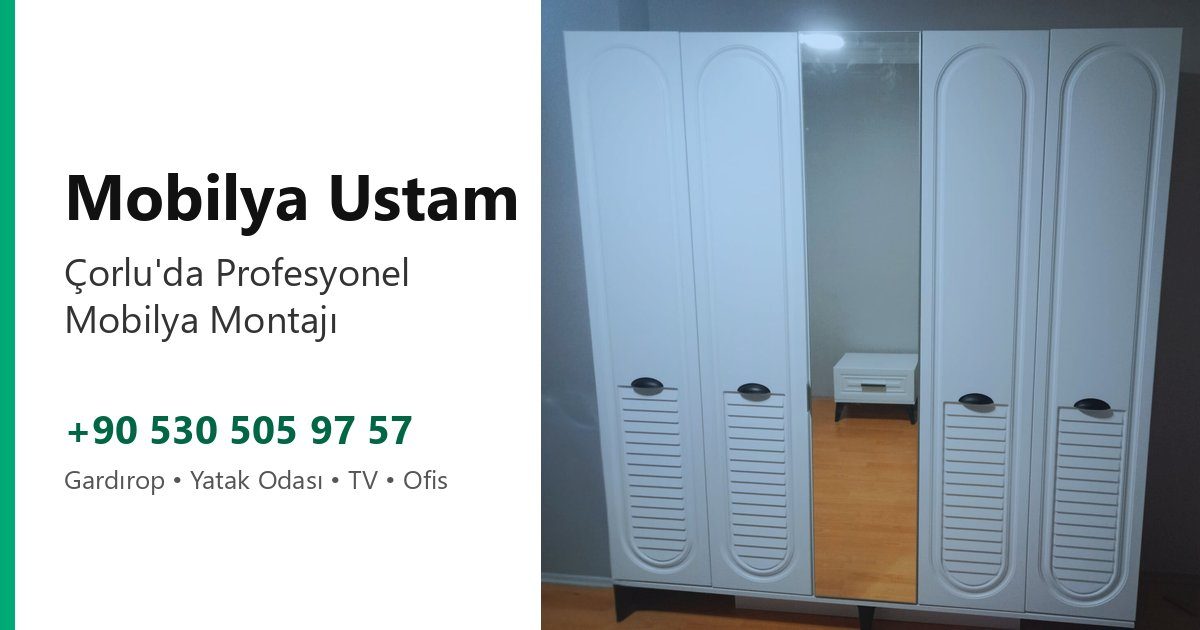
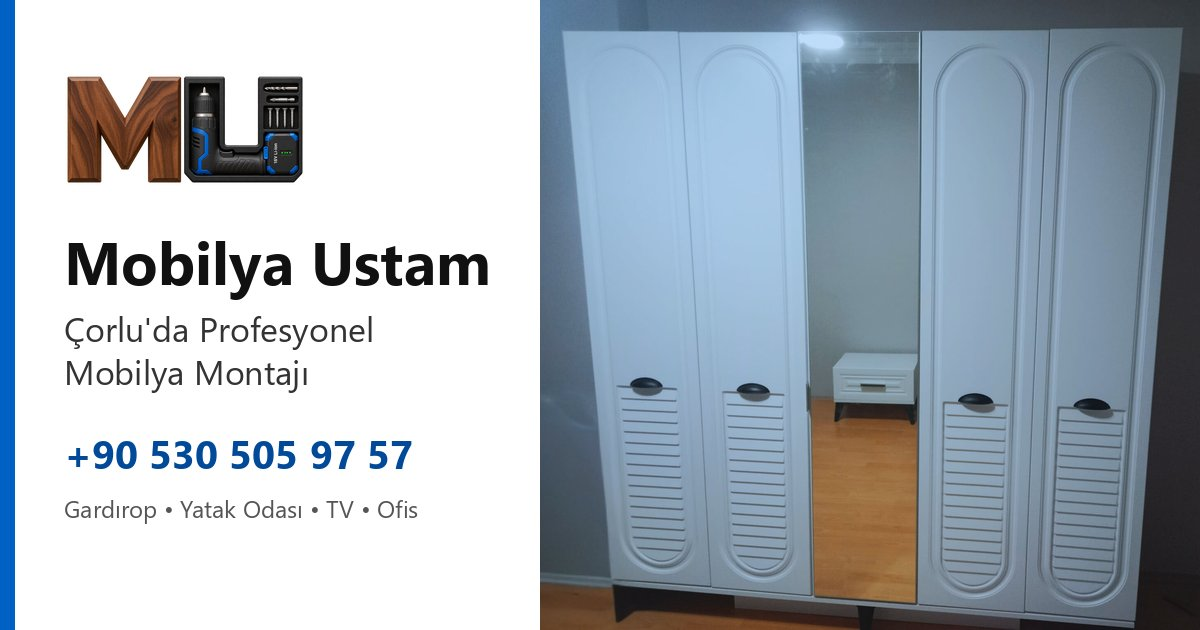
Publish site from source@ad64f96

Changed region(s): [[0.0, 0.0, 0.4317, 1.0], [0.0617, 0.6635, 0.37, 0.8444]]

diff --git a/assets/css/styles.css b/assets/css/styles.css
@@ -1,6 +1,6 @@
 /* Lightweight, system-font, responsive base */
 :root{
-  --bg:#ffffff; --fg:#111; --muted:#555; --brand:#0a7; --brand-ink:#064;
+  --bg:#ffffff; --fg:#111; --muted:#555; --brand:#0061c5; --brand-ink:#004a99;
   --max: 64rem; --gap: 1rem;
 }
 *{box-sizing:border-box}
@@ -11,7 +11,9 @@ a{color:var(--brand)} a:hover{color:var(--brand-ink)}
 header{border-bottom:1px solid #eee; position:sticky; top:0; background:#fff; z-index:10}
 nav{display:flex; gap:1rem; align-items:center; justify-content:space-between; padding:0.75rem 0}
 nav .links{display:flex; gap:0.75rem; flex-wrap:wrap}
-.logo{font-weight:700; letter-spacing:.2px}
+.logo{display:inline-flex; align-items:center; gap:.55rem; font-weight:700; letter-spacing:.2px; color:var(--brand-ink); text-decoration:none}
+.logo img{display:block; width:80px; height:40px}
+@media(max-width:640px){nav{flex-wrap:wrap; gap:.5rem}nav .links{width:100%; gap:.35rem .9rem}}
 main{padding:2rem 0}
 .hero{display:grid; gap:1rem}
 .hero h1{font-size:clamp(1.75rem,3.5vw,2.5rem); margin:.25rem 0}
@@ -88,7 +90,7 @@ details.faq p{margin:.5rem 0 0}
 .steps{padding-left:1.35rem}
 .steps li{padding-left:.25rem; margin:.55rem 0}
 .prose{max-width:52rem}
-.final-cta{margin-top:1rem; padding:1.25rem; border:1px solid #dfe9e5; border-radius:.5rem; background:#f7fbf9}
+.final-cta{margin-top:1rem; padding:1.25rem; border:1px solid #d6e3f5; border-radius:.5rem; background:#f4f8fd}
 .area-list{display:grid; grid-template-columns:repeat(auto-fit,minmax(15rem,1fr)); gap:.35rem 1.5rem; padding:0; list-style:none}
 .area-list li{padding:.35rem 0; border-bottom:1px solid #eee; scroll-margin-top:5rem}
 .footer-grid{display:flex; justify-content:space-between; gap:2rem; flex-wrap:wrap}

diff --git a/index.html b/index.html
@@ -8,9 +8,12 @@
   <meta name="google-site-verification" content="3x0CSsri1ACiUlE2xNKdaHYy5gzDs8c_Xf15ED1gwyI" />
   <link rel="preload" href="/assets/css/styles.css" as="style">
   <link rel="stylesheet" href="/assets/css/styles.css">
+  <link rel="icon" href="/favicon.ico" sizes="48x48">
   <link rel="icon" href="/assets/img/favicon-32.png" sizes="32x32" type="image/png">
   <link rel="icon" href="/assets/img/favicon-16.png" sizes="16x16" type="image/png">
-  <link rel="apple-touch-icon" href="/assets/img/favicon-192.png">
+  <link rel="apple-touch-icon" href="/assets/img/apple-touch-icon.png">
+  <link rel="manifest" href="/site.webmanifest">
+  <meta name="theme-color" content="#0061c5">
   <link rel="canonical" href="https://mobilyaustam.github.io/">
   <meta property="og:type" content="website">
   <meta property="og:site_name" content="Mobilya Ustam">
@@ -33,7 +36,7 @@
   "url": "https://mobilyaustam.github.io/",
   "telephone": "+905305059757",
   "image": "https://mobilyaustam.github.io/assets/img/og.jpg",
-  "logo": "https://mobilyaustam.github.io/assets/img/logo-og.jpg",
+  "logo": "https://mobilyaustam.github.io/assets/img/logo/mobilyaustam-logo-square-512.png",
   "priceRange": "₺₺",
   "address": {
     "@type": "PostalAddress",
@@ -153,7 +156,7 @@
   <header>
     <div class="wrap">
       <nav aria-label="Ana menü">
-        <a class="logo" href="/">Mobilya Ustam</a>
+        <a class="logo" href="/"><img src="/assets/img/logo/mobilyaustam-logo-160.webp" width="80" height="40" alt="" decoding="async"><span>Mobilya Ustam</span></a>
         <div class="links">
           <a href="/hizmetler/">Hizmetler</a>
           <a href="/bolgeler/">Hizmet Bölgeleri</a>

diff --git a/galeri/calisma-masali-genc-odasi-gardirop-kurulumu/index.html b/galeri/calisma-masali-genc-odasi-gardirop-kurulumu/index.html
@@ -6,9 +6,12 @@
   <title>Çalışma Masalı Genç Odası Gardırop Kurulumu | Mobilya Ustam</title>
   <meta name="description" content="Genç odası için aynalı gardırop ve gardıroba bağlı çalışma masası kurulumu adım adım: yerleşim planı, gövde montajı, masa tablası bağlantısı ve sabitleme.">
   <link rel="stylesheet" href="/assets/css/styles.css">
+  <link rel="icon" href="/favicon.ico" sizes="48x48">
   <link rel="icon" href="/assets/img/favicon-32.png" sizes="32x32" type="image/png">
   <link rel="icon" href="/assets/img/favicon-16.png" sizes="16x16" type="image/png">
-  <link rel="apple-touch-icon" href="/assets/img/favicon-192.png">
+  <link rel="apple-touch-icon" href="/assets/img/apple-touch-icon.png">
+  <link rel="manifest" href="/site.webmanifest">
+  <meta name="theme-color" content="#0061c5">
   <link rel="canonical" href="https://mobilyaustam.github.io/galeri/calisma-masali-genc-odasi-gardirop-kurulumu/">
   <meta property="og:type" content="article">
   <meta property="og:site_name" content="Mobilya Ustam">
@@ -211,7 +214,7 @@
   <header>
     <div class="wrap">
       <nav aria-label="Ana menü">
-        <a class="logo" href="/">Mobilya Ustam</a>
+        <a class="logo" href="/"><img src="/assets/img/logo/mobilyaustam-logo-160.webp" width="80" height="40" alt="" decoding="async"><span>Mobilya Ustam</span></a>
         <div class="links">
           <a href="/hizmetler/">Hizmetler</a>
           <a href="/bolgeler/">Hizmet Bölgeleri</a>

diff --git a/galeri/parlak-beyaz-aynali-gardirop-kurulumu/index.html b/galeri/parlak-beyaz-aynali-gardirop-kurulumu/index.html
@@ -6,9 +6,12 @@
   <title>Parlak Beyaz Aynalı Gardırop Kurulumu Adım Adım | Mobilya Ustam</title>
   <meta name="description" content="Çok modüllü, parlak beyaz ve aynalı gardırobun kurulumu adım adım: parça kontrolü, gövde montajı, modül birleştirme, menteşe ayarı ve duvara sabitleme.">
   <link rel="stylesheet" href="/assets/css/styles.css">
+  <link rel="icon" href="/favicon.ico" sizes="48x48">
   <link rel="icon" href="/assets/img/favicon-32.png" sizes="32x32" type="image/png">
   <link rel="icon" href="/assets/img/favicon-16.png" sizes="16x16" type="image/png">
-  <link rel="apple-touch-icon" href="/assets/img/favicon-192.png">
+  <link rel="apple-touch-icon" href="/assets/img/apple-touch-icon.png">
+  <link rel="manifest" href="/site.webmanifest">
+  <meta name="theme-color" content="#0061c5">
   <link rel="canonical" href="https://mobilyaustam.github.io/galeri/parlak-beyaz-aynali-gardirop-kurulumu/">
   <meta property="og:type" content="article">
   <meta property="og:site_name" content="Mobilya Ustam">
@@ -209,7 +212,7 @@
   <header>
     <div class="wrap">
       <nav aria-label="Ana menü">
-        <a class="logo" href="/">Mobilya Ustam</a>
+        <a class="logo" href="/"><img src="/assets/img/logo/mobilyaustam-logo-160.webp" width="80" height="40" alt="" decoding="async"><span>Mobilya Ustam</span></a>
         <div class="links">
           <a href="/hizmetler/">Hizmetler</a>
           <a href="/bolgeler/">Hizmet Bölgeleri</a>

diff --git a/galeri/5-kapakli-aynali-gardirop-kurulumu/index.html b/galeri/5-kapakli-aynali-gardirop-kurulumu/index.html
@@ -6,9 +6,12 @@
   <title>5 Kapaklı Aynalı Gardırop Kurulumu ve Kapak Ayarı | Mobilya Ustam</title>
   <meta name="description" content="5 kapaklı, ortası boy aynalı gardırop kurulumu adım adım: ayaklı gövde montajı, ara bölmeler, aynalı kapak, menteşe ve kulp hizası ayarı.">
   <link rel="stylesheet" href="/assets/css/styles.css">
+  <link rel="icon" href="/favicon.ico" sizes="48x48">
   <link rel="icon" href="/assets/img/favicon-32.png" sizes="32x32" type="image/png">
   <link rel="icon" href="/assets/img/favicon-16.png" sizes="16x16" type="image/png">
-  <link rel="apple-touch-icon" href="/assets/img/favicon-192.png">
+  <link rel="apple-touch-icon" href="/assets/img/apple-touch-icon.png">
+  <link rel="manifest" href="/site.webmanifest">
+  <meta name="theme-color" content="#0061c5">
   <link rel="canonical" href="https://mobilyaustam.github.io/galeri/5-kapakli-aynali-gardirop-kurulumu/">
   <meta property="og:type" content="article">
   <meta property="og:site_name" content="Mobilya Ustam">
@@ -205,7 +208,7 @@
   <header>
     <div class="wrap">
       <nav aria-label="Ana menü">
-        <a class="logo" href="/">Mobilya Ustam</a>
+        <a class="logo" href="/"><img src="/assets/img/logo/mobilyaustam-logo-160.webp" width="80" height="40" alt="" decoding="async"><span>Mobilya Ustam</span></a>
         <div class="links">
           <a href="/hizmetler/">Hizmetler</a>
           <a href="/bolgeler/">Hizmet Bölgeleri</a>

diff --git a/galeri/kose-gardirop-kurulumu/index.html b/galeri/kose-gardirop-kurulumu/index.html
@@ -6,9 +6,12 @@
   <title>L Tipi Köşe Gardırop Kurulumu Adım Adım | Mobilya Ustam</title>
   <meta name="description" content="L tipi köşe gardırop nasıl kurulur? Köşe modülünden başlayan kurulum sırası, duvar gönyesi kontrolü, modül birleştirme ve aynalı kapak ayarı adım adım.">
   <link rel="stylesheet" href="/assets/css/styles.css">
+  <link rel="icon" href="/favicon.ico" sizes="48x48">
   <link rel="icon" href="/assets/img/favicon-32.png" sizes="32x32" type="image/png">
   <link rel="icon" href="/assets/img/favicon-16.png" sizes="16x16" type="image/png">
-  <link rel="apple-touch-icon" href="/assets/img/favicon-192.png">
+  <link rel="apple-touch-icon" href="/assets/img/apple-touch-icon.png">
+  <link rel="manifest" href="/site.webmanifest">
+  <meta name="theme-color" content="#0061c5">
   <link rel="canonical" href="https://mobilyaustam.github.io/galeri/kose-gardirop-kurulumu/">
   <meta property="og:type" content="article">
   <meta property="og:site_name" content="Mobilya Ustam">
@@ -209,7 +212,7 @@
   <header>
     <div class="wrap">
       <nav aria-label="Ana menü">
-        <a class="logo" href="/">Mobilya Ustam</a>
+        <a class="logo" href="/"><img src="/assets/img/logo/mobilyaustam-logo-160.webp" width="80" height="40" alt="" decoding="async"><span>Mobilya Ustam</span></a>
         <div class="links">
           <a href="/hizmetler/">Hizmetler</a>
           <a href="/bolgeler/">Hizmet Bölgeleri</a>

diff --git a/hizmetler/masa-kurulumu/index.html b/hizmetler/masa-kurulumu/index.html
@@ -6,9 +6,12 @@
   <title>Masa Kurulumu Çorlu | Ev ve Ofis Mobilya Ustası</title>
   <meta name="description" content="Çorlu masa kurulumu. Çalışma masası, yemek masası, bilgisayar masası, toplantı masası ve makyaj masası montajı. Telefon veya WhatsApp ile teklif alın.">
   <link rel="stylesheet" href="/assets/css/styles.css">
+  <link rel="icon" href="/favicon.ico" sizes="48x48">
   <link rel="icon" href="/assets/img/favicon-32.png" sizes="32x32" type="image/png">
   <link rel="icon" href="/assets/img/favicon-16.png" sizes="16x16" type="image/png">
-  <link rel="apple-touch-icon" href="/assets/img/favicon-192.png">
+  <link rel="apple-touch-icon" href="/assets/img/apple-touch-icon.png">
+  <link rel="manifest" href="/site.webmanifest">
+  <meta name="theme-color" content="#0061c5">
   <link rel="canonical" href="https://mobilyaustam.github.io/hizmetler/masa-kurulumu/">
   <meta property="og:type" content="website">
   <meta property="og:site_name" content="Mobilya Ustam">
@@ -101,7 +104,7 @@
   <header>
     <div class="wrap">
       <nav aria-label="Ana menü">
-        <a class="logo" href="/">Mobilya Ustam</a>
+        <a class="logo" href="/"><img src="/assets/img/logo/mobilyaustam-logo-160.webp" width="80" height="40" alt="" decoding="async"><span>Mobilya Ustam</span></a>
         <div class="links">
           <a href="/hizmetler/" aria-current="page">Hizmetler</a>
           <a href="/bolgeler/">Hizmet Bölgeleri</a>

diff --git a/hizmetler/dolap-kurulumu/index.html b/hizmetler/dolap-kurulumu/index.html
@@ -6,9 +6,12 @@
   <title>Dolap Kurulumu Çorlu | Gardırop Montaj Ustası</title>
   <meta name="description" content="Çorlu dolap kurulumu ve gardırop montajı. Sürgülü, menteşeli, aynalı ve köşe dolapları deneyimli mobilya ustasıyla güvenli biçimde kurulur.">
   <link rel="stylesheet" href="/assets/css/styles.css">
+  <link rel="icon" href="/favicon.ico" sizes="48x48">
   <link rel="icon" href="/assets/img/favicon-32.png" sizes="32x32" type="image/png">
   <link rel="icon" href="/assets/img/favicon-16.png" sizes="16x16" type="image/png">
-  <link rel="apple-touch-icon" href="/assets/img/favicon-192.png">
+  <link rel="apple-touch-icon" href="/assets/img/apple-touch-icon.png">
+  <link rel="manifest" href="/site.webmanifest">
+  <meta name="theme-color" content="#0061c5">
   <link rel="canonical" href="https://mobilyaustam.github.io/hizmetler/dolap-kurulumu/">
   <meta property="og:type" content="website">
   <meta property="og:site_name" content="Mobilya Ustam">
@@ -101,7 +104,7 @@
   <header>
     <div class="wrap">
       <nav aria-label="Ana menü">
-        <a class="logo" href="/">Mobilya Ustam</a>
+        <a class="logo" href="/"><img src="/assets/img/logo/mobilyaustam-logo-160.webp" width="80" height="40" alt="" decoding="async"><span>Mobilya Ustam</span></a>
         <div class="links">
           <a href="/hizmetler/" aria-current="page">Hizmetler</a>
           <a href="/bolgeler/">Hizmet Bölgeleri</a>

diff --git a/galeri/aynali-makyaj-masasi-kurulumu/index.html b/galeri/aynali-makyaj-masasi-kurulumu/index.html
@@ -6,9 +6,12 @@
   <title>Aynalı Makyaj Masası Kurulumu Adım Adım | Mobilya Ustam</title>
   <meta name="description" content="Yan dolaplı, çekmeceli ve kemer aynalı makyaj masası nasıl kurulur? Gövde, çekmece rayı, ayna bağlantısı ve duvara sabitleme adım adım.">
   <link rel="stylesheet" href="/assets/css/styles.css">
+  <link rel="icon" href="/favicon.ico" sizes="48x48">
   <link rel="icon" href="/assets/img/favicon-32.png" sizes="32x32" type="image/png">
   <link rel="icon" href="/assets/img/favicon-16.png" sizes="16x16" type="image/png">
-  <link rel="apple-touch-icon" href="/assets/img/favicon-192.png">
+  <link rel="apple-touch-icon" href="/assets/img/apple-touch-icon.png">
+  <link rel="manifest" href="/site.webmanifest">
+  <meta name="theme-color" content="#0061c5">
   <link rel="canonical" href="https://mobilyaustam.github.io/galeri/aynali-makyaj-masasi-kurulumu/">
   <meta property="og:type" content="article">
   <meta property="og:site_name" content="Mobilya Ustam">
@@ -205,7 +208,7 @@
   <header>
     <div class="wrap">
       <nav aria-label="Ana menü">
-        <a class="logo" href="/">Mobilya Ustam</a>
+        <a class="logo" href="/"><img src="/assets/img/logo/mobilyaustam-logo-160.webp" width="80" height="40" alt="" decoding="async"><span>Mobilya Ustam</span></a>
         <div class="links">
           <a href="/hizmetler/">Hizmetler</a>
           <a href="/bolgeler/">Hizmet Bölgeleri</a>

diff --git a/hizmetler/yemek-odasi-kurulumu/index.html b/hizmetler/yemek-odasi-kurulumu/index.html
@@ -6,9 +6,12 @@
   <title>Yemek Odası Kurulumu Çorlu | Mobilya Ustam</title>
   <meta name="description" content="Çorlu yemek odası kurulumu. Yemek masası, sandalye, konsol ve vitrin montajı, kapak ve çekmece ayarı. Hızlı teklif için fotoğraf gönderin.">
   <link rel="stylesheet" href="/assets/css/styles.css">
+  <link rel="icon" href="/favicon.ico" sizes="48x48">
   <link rel="icon" href="/assets/img/favicon-32.png" sizes="32x32" type="image/png">
   <link rel="icon" href="/assets/img/favicon-16.png" sizes="16x16" type="image/png">
-  <link rel="apple-touch-icon" href="/assets/img/favicon-192.png">
+  <link rel="apple-touch-icon" href="/assets/img/apple-touch-icon.png">
+  <link rel="manifest" href="/site.webmanifest">
+  <meta name="theme-color" content="#0061c5">
   <link rel="canonical" href="https://mobilyaustam.github.io/hizmetler/yemek-odasi-kurulumu/">
   <meta property="og:type" content="website">
   <meta property="og:site_name" content="Mobilya Ustam">
@@ -101,7 +104,7 @@
   <header>
     <div class="wrap">
       <nav aria-label="Ana menü">
-        <a class="logo" href="/">Mobilya Ustam</a>
+        <a class="logo" href="/"><img src="/assets/img/logo/mobilyaustam-logo-160.webp" width="80" height="40" alt="" decoding="async"><span>Mobilya Ustam</span></a>
         <div class="links">
           <a href="/hizmetler/" aria-current="page">Hizmetler</a>
           <a href="/bolgeler/">Hizmet Bölgeleri</a>

diff --git a/hizmetler/yatak-odasi-kurulumu/index.html b/hizmetler/yatak-odasi-kurulumu/index.html
@@ -6,9 +6,12 @@
   <title>Yatak Odası Kurulumu Çorlu | Mobilya Ustam</title>
   <meta name="description" content="Çorlu yatak odası kurulumu. Gardırop, karyola, baza, şifonyer, komodin ve makyaj masası montajı için deneyimli mobilya ustası.">
   <link rel="stylesheet" href="/assets/css/styles.css">
+  <link rel="icon" href="/favicon.ico" sizes="48x48">
   <link rel="icon" href="/assets/img/favicon-32.png" sizes="32x32" type="image/png">
   <link rel="icon" href="/assets/img/favicon-16.png" sizes="16x16" type="image/png">
-  <link rel="apple-touch-icon" href="/assets/img/favicon-192.png">
+  <link rel="apple-touch-icon" href="/assets/img/apple-touch-icon.png">
+  <link rel="manifest" href="/site.webmanifest">
+  <meta name="theme-color" content="#0061c5">
   <link rel="canonical" href="https://mobilyaustam.github.io/hizmetler/yatak-odasi-kurulumu/">
   <meta property="og:type" content="website">
   <meta property="og:site_name" content="Mobilya Ustam">
@@ -101,7 +104,7 @@
   <header>
     <div class="wrap">
       <nav aria-label="Ana menü">
-        <a class="logo" href="/">Mobilya Ustam</a>
+        <a class="logo" href="/"><img src="/assets/img/logo/mobilyaustam-logo-160.webp" width="80" height="40" alt="" decoding="async"><span>Mobilya Ustam</span></a>
         <div class="links">
           <a href="/hizmetler/" aria-current="page">Hizmetler</a>
           <a href="/bolgeler/">Hizmet Bölgeleri</a>

diff --git a/corlu/index.html b/corlu/index.html
@@ -6,9 +6,12 @@
   <title>Çorlu Mobilya Ustası | Tüm Mahallelerde Montaj</title>
   <meta name="description" content="Çorlu mobilya ustası ve montaj hizmeti. Çorlu'nun 26 mahallesinde dolap, yatak odası, yemek odası ve masa kurulumu için teklif alın.">
   <link rel="stylesheet" href="/assets/css/styles.css">
+  <link rel="icon" href="/favicon.ico" sizes="48x48">
   <link rel="icon" href="/assets/img/favicon-32.png" sizes="32x32" type="image/png">
   <link rel="icon" href="/assets/img/favicon-16.png" sizes="16x16" type="image/png">
-  <link rel="apple-touch-icon" href="/assets/img/favicon-192.png">
+  <link rel="apple-touch-icon" href="/assets/img/apple-touch-icon.png">
+  <link rel="manifest" href="/site.webmanifest">
+  <meta name="theme-color" content="#0061c5">
   <link rel="canonical" href="https://mobilyaustam.github.io/corlu/">
   <meta property="og:type" content="website">
   <meta property="og:site_name" content="Mobilya Ustam">
@@ -171,7 +174,7 @@
   <header>
     <div class="wrap">
       <nav aria-label="Ana menü">
-        <a class="logo" href="/">Mobilya Ustam</a>
+        <a class="logo" href="/"><img src="/assets/img/logo/mobilyaustam-logo-160.webp" width="80" height="40" alt="" decoding="async"><span>Mobilya Ustam</span></a>
         <div class="links">
           <a href="/hizmetler/">Hizmetler</a>
           <a href="/bolgeler/" aria-current="page">Hizmet Bölgeleri</a>
